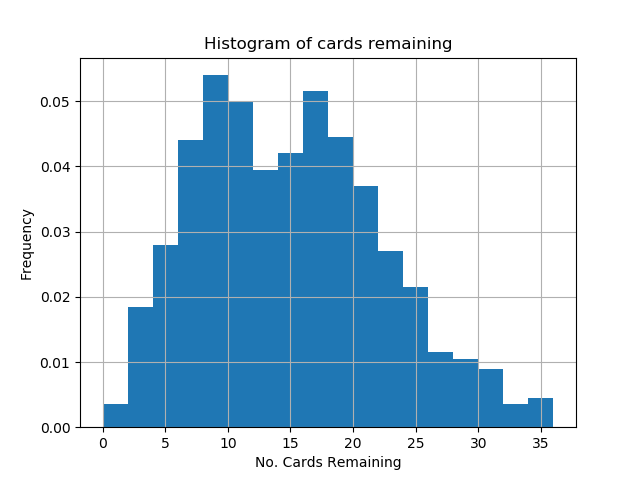
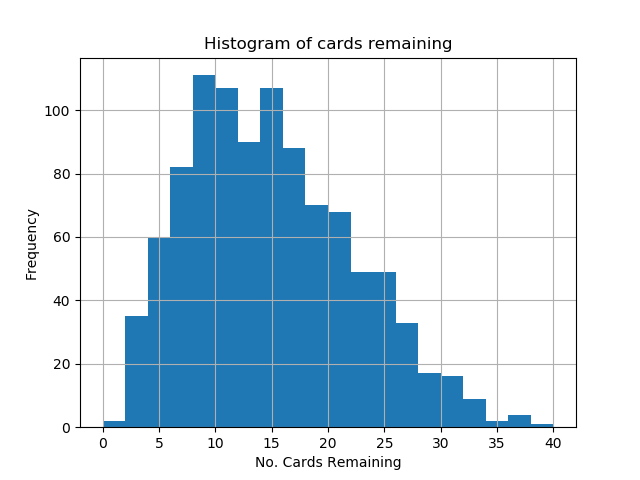
best fit

diff --git a/p5.py b/p5.py
@@ -8,6 +8,9 @@ from statistics import stdev
 import matplotlib
 matplotlib.use('agg')
 import matplotlib.pyplot as plt
+from scipy.stats import norm
+import matplotlib.mlab as mlab
+
 
 N = 1000 #number of simulations
 
@@ -67,9 +70,12 @@ rem.sort()
 print( "Sample mean of remaining cards: ", mean(rem) )
 print( "Sample standard deviation of remaining cards: ", stdev(rem) )
     
-#N, bins = np.histogram(rem)
-#fig = plt.figure()
-plt.hist(rem, normed=True, bins='auto')
+(mu, sigma) = norm.fit(rem)
+
+plt.hist(rem, bins='auto')
+y = mlab.normpdf(18, mu, sigma)
+l =plt.plot(18, y, 'r--', linewidth=2)
+
 plt.title('Histogram of cards remaining')
 plt.xlabel('No. Cards Remaining')
 plt.ylabel('Frequency')
